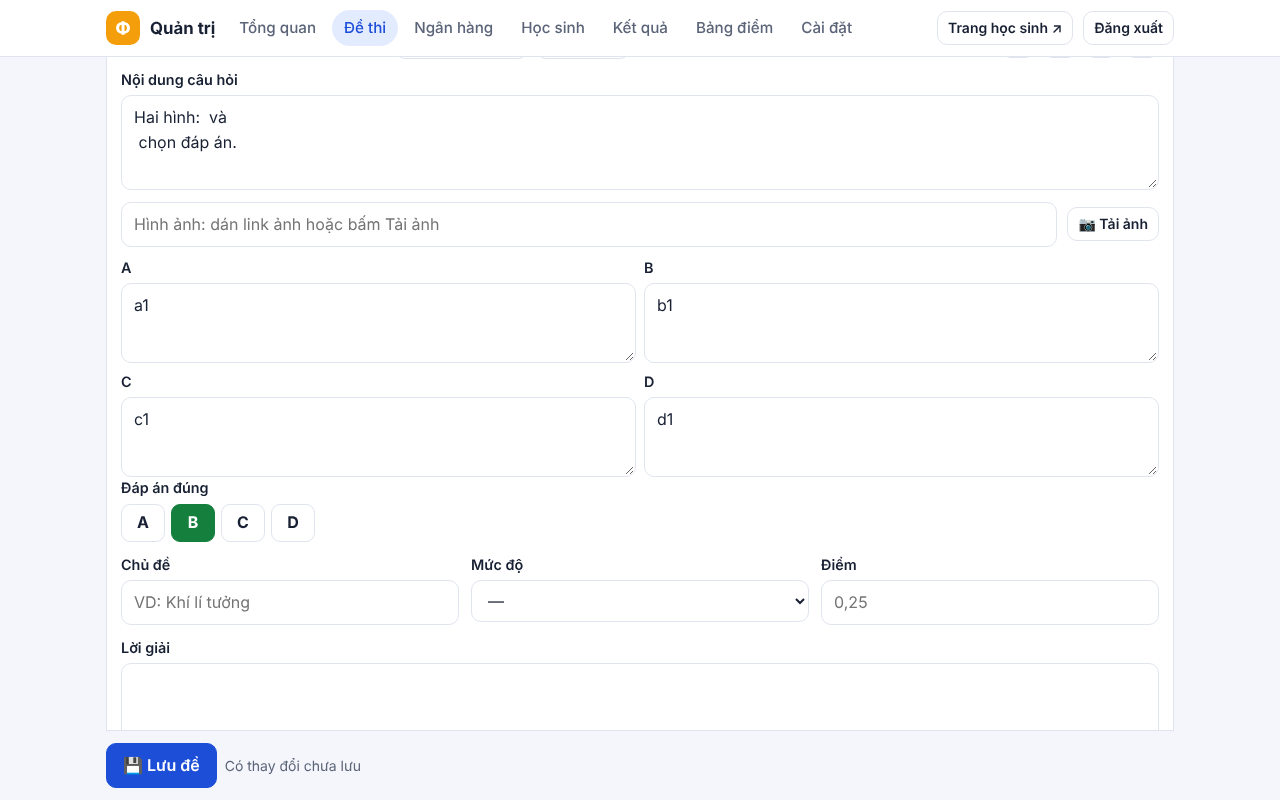
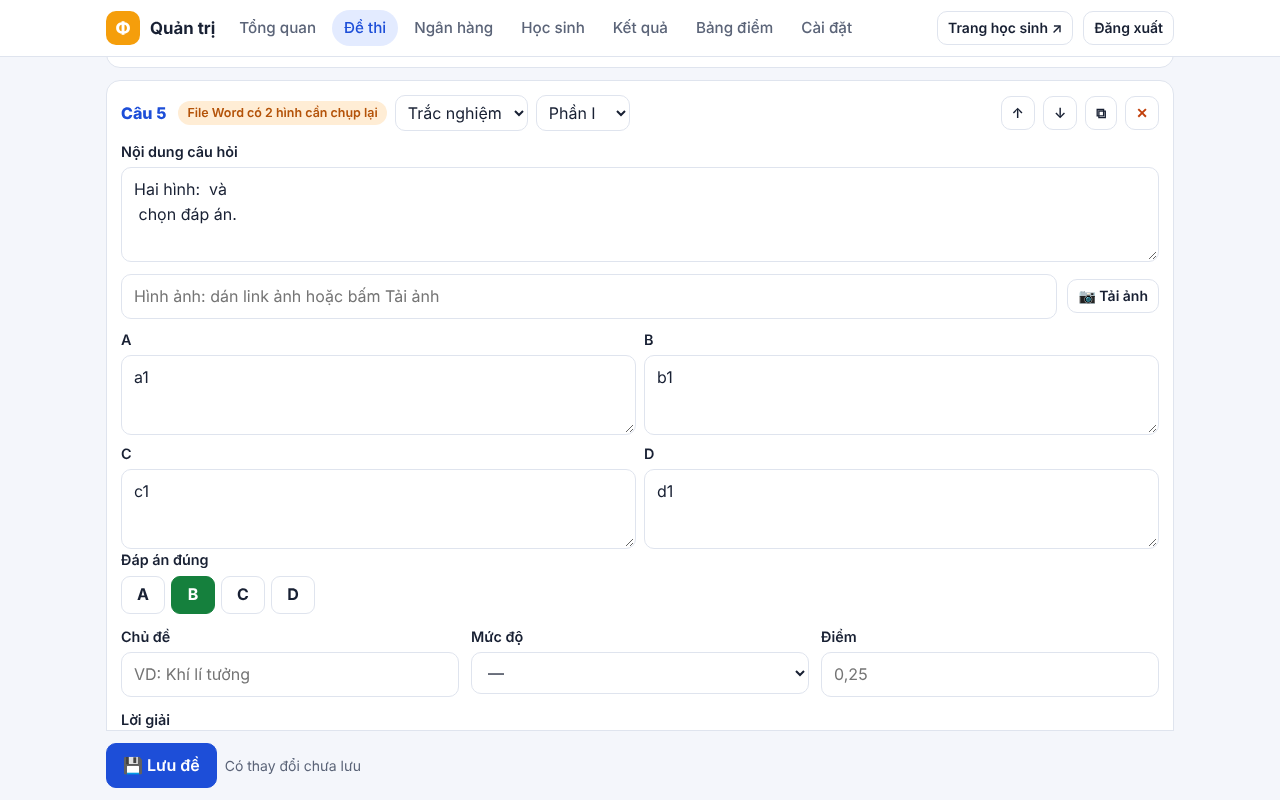
Pha 3: kiểm thử vòng 2 (ĐẠT); ghi chú điều phối khi gộp
Claude-Session: https://claude.ai/code/session_01BBCuQ1sSV2ojmqNhomXWAj

diff --git a/tests/pha3-kiem-thu.e2e.js b/tests/pha3-kiem-thu.e2e.js
@@ -453,7 +453,7 @@ async function runMode(browser, compat) {
     const hl2 = await ad.evaluate(() => ({ n: document.querySelectorAll('.qedit').length, modal: !!document.querySelector('.modal #impResult'), lab: [...document.querySelectorAll('.qedit')].map((q, i) => (q.querySelector('[data-hinhloi]') ? (i + 1) + ':' + q.querySelector('[data-hinhloi]').textContent.trim() : null)).filter(Boolean), msg: [...document.querySelectorAll('.toast, .modal')].map((e) => e.innerText).join(' | ').slice(0, 200) }));
     await ad.unroute(/\/exec$/);
     if (hl2.modal) { await ad.click('.modal [data-close]').catch(() => {}); }
-    if (!compat) { const el = (await ad.$$('.qedit'))[4]; if (el) { await el.scrollIntoViewIfNeeded(); await shot(ad, '10-nhan-hinh-loi'); } }
+    if (!compat) { const el = (await ad.$$('.qedit'))[4]; if (el) { await el.evaluate((e) => { e.scrollIntoView({ block: 'start' }); window.scrollBy(0, -80); }); await shot(ad, '10-nhan-hinh-loi'); } }
     verdict('V2 nhãn "hình cần chụp lại" khi tải hình lỗi', hl2.n === 6 && hl2.lab.length === 2 && /^2:/.test(hl2.lab[0]) && /^5:.*2 hình/.test(hl2.lab[1]),
       `adminUploadImage trả lỗi → ${hl2.n} câu vẫn vào trình soạn, nhãn: ${JSON.stringify(hl2.lab)}; thông báo: "${hl2.msg.replace(/\n/g, ' ').slice(0, 120)}"`);
     // Bom nén / XML độc trong giao diện → báo tiếng Việt, trang không treo

diff --git a/docs/bao-cao/pha-3.md b/docs/bao-cao/pha-3.md
@@ -143,3 +143,8 @@ Kết quả chạy lại (vòng 2): `docx.test.js` 27/27; `pha3-kiem-thu.test.js
 Rủi ro bổ sung:
 - **SheetJS 0.18.5** có hai lỗi đã công bố khi đọc file .xlsx độc (CVE-2023-30533, CVE-2024-22363). Bản sửa chỉ có ở cdn.sheetjs.com (ngoài danh sách CDN cho phép). Trang quản trị chỉ giáo viên dùng và chỉ mở file của chính mình, nên rủi ro thấp; không mở file .xlsx lạ. Thẻ tải thư viện chưa có `integrity` (xem R-6).
 - Giới hạn giải nén cho .xlsx do SheetJS tự lo (chưa chặn trước như .docx).
+
+## Ghi chú của điều phối khi gộp (19/11/2026)
+- Soát code vòng 2: **ĐẠT**. Kiểm thử vòng 2: **ĐẠT** (14/14 TC, cả hai chế độ máy chủ). Code.gs không đổi.
+- Còn 2 lỗi Nhẹ chuyển sang Pha 6 (không chặn gộp): **N-2** file .docx khai sai kích thước giải nén vẫn bị giải nén hết rồi báo lỗi tiếng Anh; **N-3** sau "HẾT", dòng "Câu 1. Lời giải: Chọn B." chưa lấy được đáp án (có cảnh báo "chưa tìm thấy đáp án", không sai âm thầm).
+- Cần kiểm trên trang thật ở Pha 6: thư viện JSZip/SheetJS tải được từ cdnjs; tải hình lên Apps Script thật.
